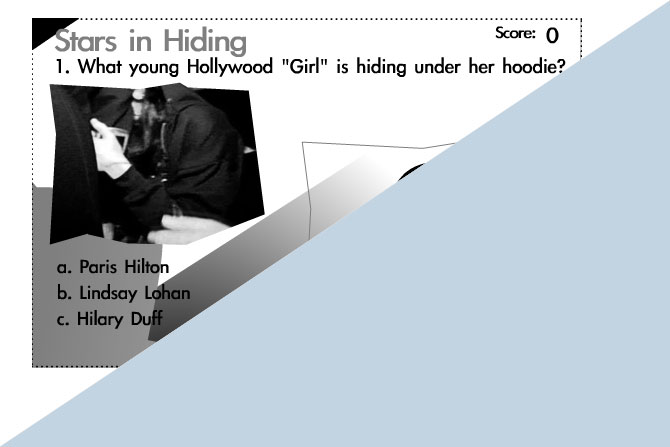
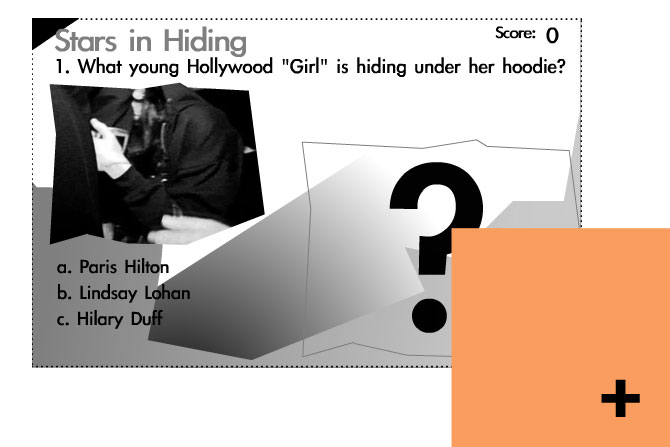
Fixed css, images, added projects

diff --git a/public/stylesheets/style.css b/public/stylesheets/style.css
@@ -180,7 +180,7 @@ display: inline-block;
 
 .logo {
 float: left;
-height: 80px;
+height: 95px;
 margin-left: 23px;
 margin-top: 4px;
 width: 100px;
@@ -232,7 +232,11 @@ text-align: center;
 
 }
 
+.hyp {
 
+  font-weight: bold;
+/*  text-decoration: underline;*/
+}
 
 #status {
 width:200px;

diff --git a/public/stylesheets/set1.css b/public/stylesheets/set1.css
@@ -28,7 +28,7 @@
 	max-width: 100%;
 /*	max-height: 400px;*/
 /*	width: 48%;*/
-	background: #ff9966;
+	background: #c1d4e0;
 	text-align: center;
 	cursor: pointer;
 }
